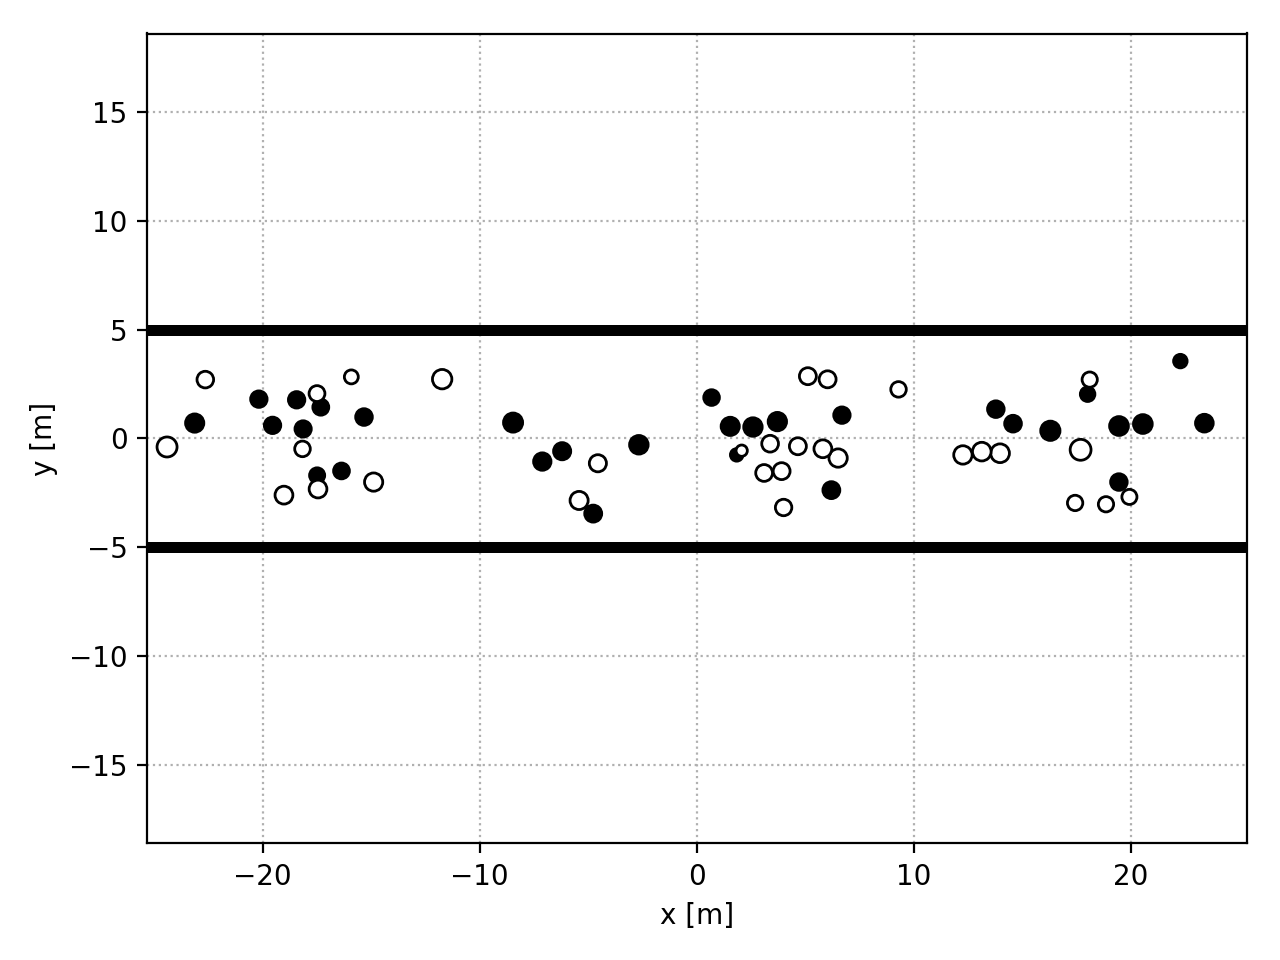
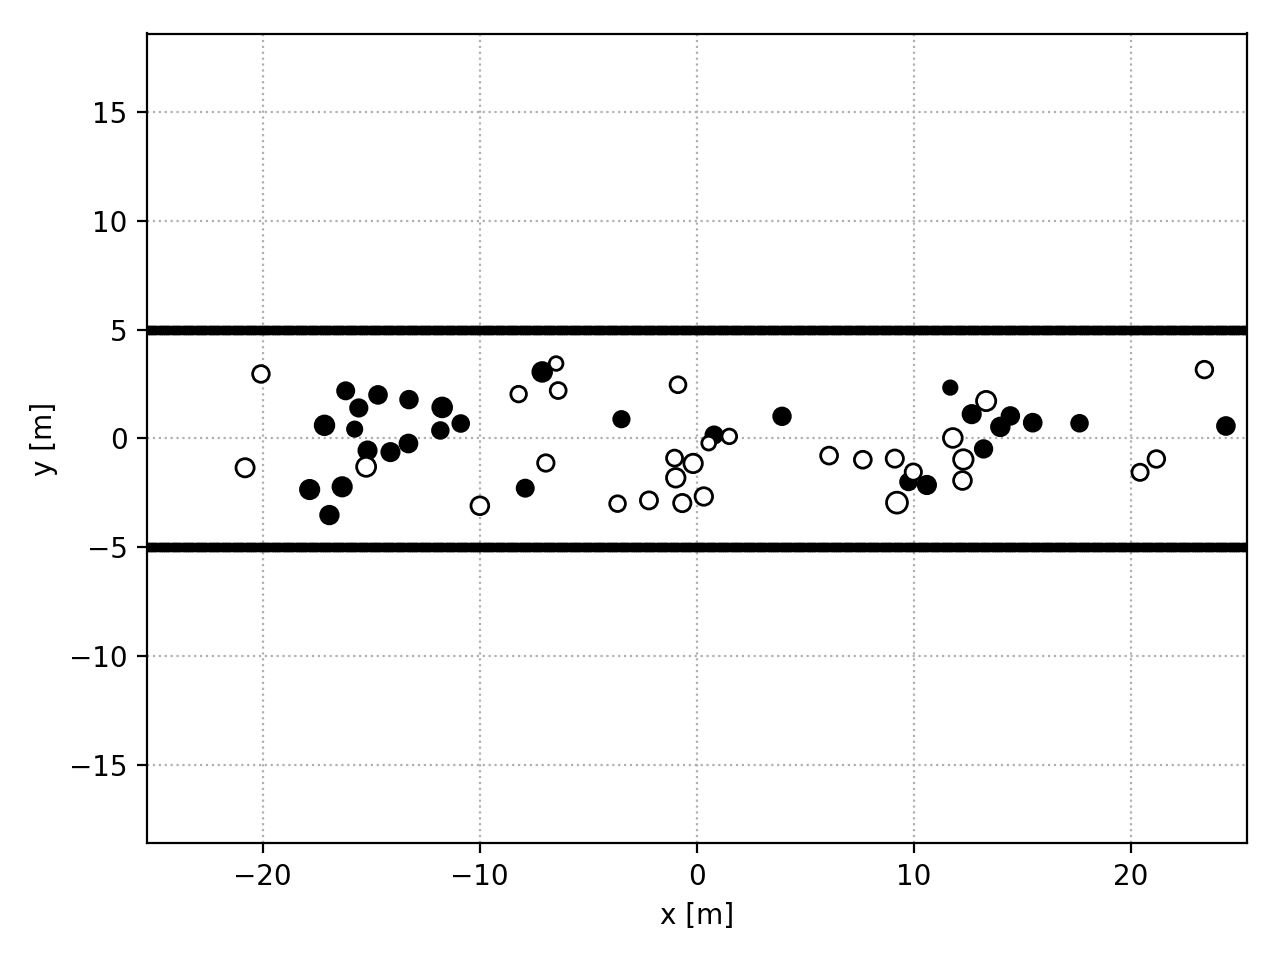
higher time resolution

diff --git a/tests/scenarios_pedpedspace.py b/tests/scenarios_pedpedspace.py
@@ -78,23 +78,42 @@ def test_separator():
 
 
 @pytest.mark.plot
-def test_gate():
+def test_gate(gate_width=1.4):
+    torch.manual_seed(42)
+
     initial_state = torch.tensor([
-        [-9.0 - 2.0 * random.random(), -0.5 + random.random(), 1.0, 0.0, 5.0, 0.0]
+        [-10.0 - 2.0 * random.random(), -0.5 + random.random(), 1.0, 0.0, 0.1, 0.0]
         for _ in range(20)
     ] + [
-        [10.0 + 2.0 * random.random(), -0.5 + random.random(), -1.0, 0.0, -5.0, 0.0]
+        [10.0 + 2.0 * random.random(), -0.5 + random.random(), -1.0, 0.0, -0.1, 0.0]
         for _ in range(20)
     ])
+    # randomize desired x-speed
+    initial_state[:, 2] = torch.normal(initial_state[:, 2], 0.26)
+
     space = [
-        torch.tensor([(0.0, y) for y in np.linspace(-5.0, -0.7, 1000)]),
-        torch.tensor([(0.0, y) for y in np.linspace(0.7, 5.0, 1000)]),
+        torch.tensor([(0.0, y) for y in np.linspace(-5.0, -gate_width/2.0, 500)]),
+        torch.tensor([(0.0, y) for y in np.linspace(gate_width/2.0, 5.0, 500)]),
         torch.tensor([(x, -5.0) for x in np.linspace(-10, 10, 1000)]),
         torch.tensor([(x, 5.0) for x in np.linspace(-10, 10, 1000)]),
     ]
-    s = socialforce.Simulator(initial_state, socialforce.PedSpacePotential(space), delta_t=0.2)
-    states = torch.stack([s.step().state.clone() for _ in range(150)])
+    s = socialforce.Simulator(initial_state, socialforce.PedSpacePotential(space), delta_t=0.04)
+    states = []
+    for step_i in range(1000):
+        state = s.step().state
+        # first target is not a point but a line spanning the gate
+        state[:, 5] = torch.clamp(state[:, 1], -gate_width/4.0, gate_width/4.0)
+        # move target once through gate
+        state[(state[:, 4] > 0.0) & (state[:, 0] > 0.0), 4] = 5.0
+        state[(state[:, 4] < 0.0) & (state[:, 0] < 0.0), 4] = -5.0
 
+        if step_i % 10 == 0:  # only add every 4th frame to gif
+            states.append(state.clone())
+
+        if step_i % 100 == 0:
+            print('step', step_i)
+
+    states = torch.stack(states)
     with visualize(states, space, 'docs/gate.gif', frames=[75]) as ax:
         ax.set_xlim(-10, 10)
 
@@ -103,8 +122,8 @@ def test_gate():
 def test_walkway(n):
     torch.manual_seed(42)
 
-    pos_left = ((torch.rand((n, 2)) - 0.5) * 2.0) * torch.tensor([25.0, 5.0])
-    pos_right = ((torch.rand((n, 2)) - 0.5) * 2.0) * torch.tensor([25.0, 5.0])
+    pos_left = ((torch.rand((n, 2)) - 0.5) * 2.0) * torch.tensor([25.0, 4.5])
+    pos_right = ((torch.rand((n, 2)) - 0.5) * 2.0) * torch.tensor([25.0, 4.5])
 
     ones = torch.ones((n, 1))
     zeros = torch.zeros((n, 1))
@@ -121,19 +140,23 @@ def test_walkway(n):
     initial_state = torch.cat((state_left, state_right))
 
     space = [
-        torch.tensor([(x, 5) for x in np.linspace(-30, 30, num=5000)]),
-        torch.tensor([(x, -5) for x in np.linspace(-30, 30, num=5000)]),
+        torch.tensor([(x, 5) for x in np.linspace(-30, 30, num=600)]),
+        torch.tensor([(x, -5) for x in np.linspace(-30, 30, num=600)]),
     ]
-    s = socialforce.Simulator(initial_state, socialforce.PedSpacePotential(space), delta_t=0.2)
+    s = socialforce.Simulator(initial_state, socialforce.PedSpacePotential(space), delta_t=0.04)
     states = []
-    for _ in range(1000):
+    for step_i in range(5000):
         state = s.step().state
         # periodic boundary conditions
         state[state[:, 0] > 25, 0] -= 50
         state[state[:, 0] < -25, 0] += 50
 
-        states.append(state.clone())
-    states = torch.stack(states)[::4]  # only add every 4th frame to gif
+        if step_i % 10 == 0:  # only add every 4th frame to gif
+            states.append(state.clone())
 
+        if step_i % 100 == 0:
+            print('step', step_i, n)
+
+    states = torch.stack(states)
     with visualize(states, space, 'docs/walkway_{}.gif'.format(n), frames=[200]) as ax:
         ax.set_xlim(-25, 25)
